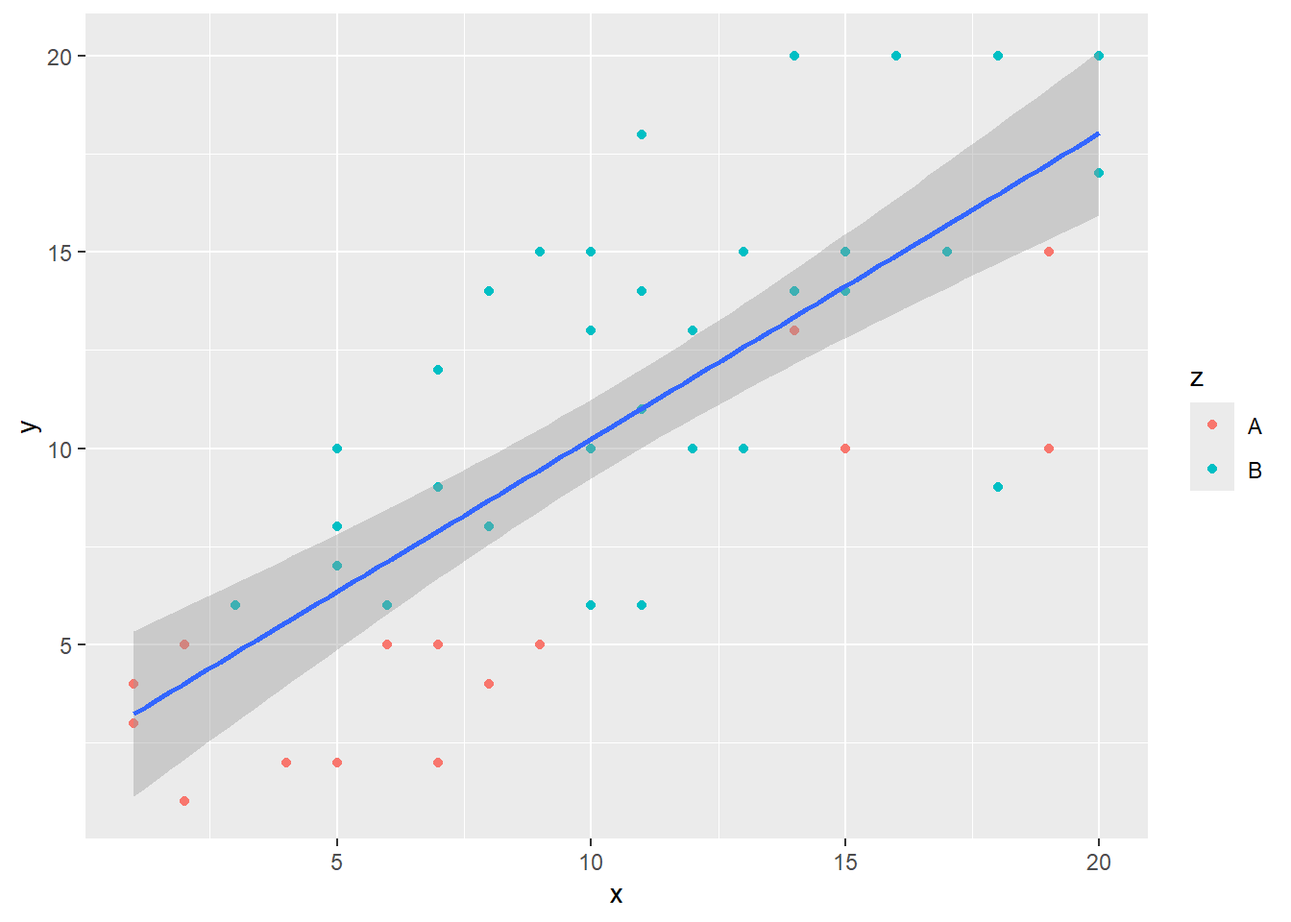
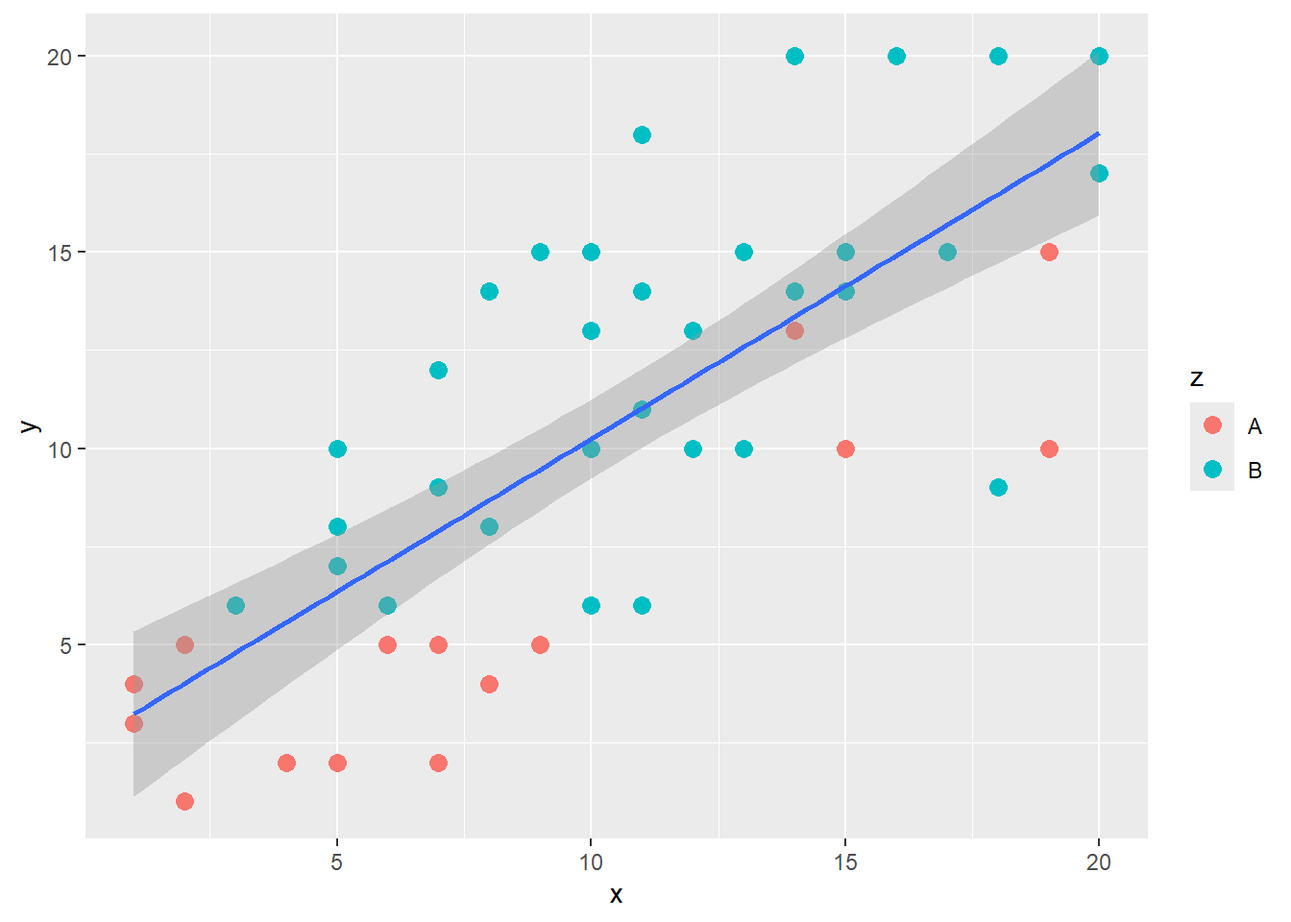
actualizacion 24/6

diff --git a/clases/12-clase/index.html b/clases/12-clase/index.html
@@ -95,7 +95,11 @@ pre > code.sourceCode > span > a:first-child::before { text-decoration: underlin
   <li><a href="#ejemplo-de-gráfico-de-dispersión" id="toc-ejemplo-de-gráfico-de-dispersión" class="nav-link" data-scroll-target="#ejemplo-de-gráfico-de-dispersión">Ejemplo de gráfico de dispersión</a></li>
   <li><a href="#capa-geométrica" id="toc-capa-geométrica" class="nav-link" data-scroll-target="#capa-geométrica">Capa geométrica</a></li>
   <li><a href="#facetas" id="toc-facetas" class="nav-link" data-scroll-target="#facetas">Facetas</a></li>
-  <li><a href="#colores" id="toc-colores" class="nav-link" data-scroll-target="#colores">Colores</a></li>
+  <li><a href="#colores" id="toc-colores" class="nav-link" data-scroll-target="#colores">Colores</a>
+  <ul class="collapse">
+  <li><a href="#paletas-de-colores" id="toc-paletas-de-colores" class="nav-link" data-scroll-target="#paletas-de-colores">Paletas de colores</a></li>
+  <li><a href="#funciones-scale_" id="toc-funciones-scale_" class="nav-link" data-scroll-target="#funciones-scale_">Funciones scale_*</a></li>
+  </ul></li>
   <li><a href="#personalización" id="toc-personalización" class="nav-link" data-scroll-target="#personalización">Personalización</a></li>
   <li><a href="#exportación" id="toc-exportación" class="nav-link" data-scroll-target="#exportación">Exportación</a></li>
   <li><a href="#composición-de-gráficos" id="toc-composición-de-gráficos" class="nav-link" data-scroll-target="#composición-de-gráficos">Composición de gráficos</a></li>
@@ -275,7 +279,7 @@ pre > code.sourceCode > span > a:first-child::before { text-decoration: underlin
 <div class="cell" data-layout-align="center">
 <div class="sourceCode cell-code" id="cb6"><pre class="sourceCode r code-with-copy"><code class="sourceCode r"><span id="cb6-1"><a href="#cb6-1" aria-hidden="true" tabindex="-1"></a>datos <span class="sc">|&gt;</span> </span>
 <span id="cb6-2"><a href="#cb6-2" aria-hidden="true" tabindex="-1"></a>  <span class="fu">ggplot</span>(<span class="at">mapping =</span> <span class="fu">aes</span>(<span class="at">x =</span> x, <span class="at">y =</span> y)) <span class="sc">+</span> </span>
-<span id="cb6-3"><a href="#cb6-3" aria-hidden="true" tabindex="-1"></a>  <span class="fu">geom_point</span>()</span></code><button title="Copy to Clipboard" class="code-copy-button"><i class="bi"></i></button></pre></div>
+<span id="cb6-3"><a href="#cb6-3" aria-hidden="true" tabindex="-1"></a>  <span class="fu">geom_point</span>(<span class="at">size =</span> <span class="dv">3</span>)</span></code><button title="Copy to Clipboard" class="code-copy-button"><i class="bi"></i></button></pre></div>
 <div class="cell-output-display">
 <div class="quarto-figure quarto-figure-center">
 <figure class="figure">
@@ -288,7 +292,7 @@ pre > code.sourceCode > span > a:first-child::before { text-decoration: underlin
 <div class="cell" data-layout-align="center">
 <div class="sourceCode cell-code" id="cb7"><pre class="sourceCode r code-with-copy"><code class="sourceCode r"><span id="cb7-1"><a href="#cb7-1" aria-hidden="true" tabindex="-1"></a>datos <span class="sc">|&gt;</span> </span>
 <span id="cb7-2"><a href="#cb7-2" aria-hidden="true" tabindex="-1"></a>  <span class="fu">ggplot</span>(<span class="at">mapping =</span> <span class="fu">aes</span>(<span class="at">x =</span> x, <span class="at">y =</span> y, <span class="at">color =</span> z)) <span class="sc">+</span> </span>
-<span id="cb7-3"><a href="#cb7-3" aria-hidden="true" tabindex="-1"></a>  <span class="fu">geom_point</span>()</span></code><button title="Copy to Clipboard" class="code-copy-button"><i class="bi"></i></button></pre></div>
+<span id="cb7-3"><a href="#cb7-3" aria-hidden="true" tabindex="-1"></a>  <span class="fu">geom_point</span>(<span class="at">size =</span> <span class="dv">3</span>)</span></code><button title="Copy to Clipboard" class="code-copy-button"><i class="bi"></i></button></pre></div>
 <div class="cell-output-display">
 <div class="quarto-figure quarto-figure-center">
 <figure class="figure">
@@ -302,7 +306,7 @@ pre > code.sourceCode > span > a:first-child::before { text-decoration: underlin
 <div class="cell" data-layout-align="center">
 <div class="sourceCode cell-code" id="cb8"><pre class="sourceCode r code-with-copy"><code class="sourceCode r"><span id="cb8-1"><a href="#cb8-1" aria-hidden="true" tabindex="-1"></a>datos <span class="sc">|&gt;</span> </span>
 <span id="cb8-2"><a href="#cb8-2" aria-hidden="true" tabindex="-1"></a>  <span class="fu">ggplot</span>(<span class="at">mapping =</span> <span class="fu">aes</span>(<span class="at">x =</span> x, <span class="at">y =</span> y)) <span class="sc">+</span> </span>
-<span id="cb8-3"><a href="#cb8-3" aria-hidden="true" tabindex="-1"></a>  <span class="fu">geom_point</span>(<span class="at">color =</span> <span class="st">"blue"</span>, <span class="at">shape =</span> <span class="dv">17</span>, <span class="at">size =</span> <span class="dv">2</span>)</span></code><button title="Copy to Clipboard" class="code-copy-button"><i class="bi"></i></button></pre></div>
+<span id="cb8-3"><a href="#cb8-3" aria-hidden="true" tabindex="-1"></a>  <span class="fu">geom_point</span>(<span class="at">color =</span> <span class="st">"blue"</span>, <span class="at">shape =</span> <span class="dv">17</span>, <span class="at">size =</span> <span class="dv">3</span>)</span></code><button title="Copy to Clipboard" class="code-copy-button"><i class="bi"></i></button></pre></div>
 <div class="cell-output-display">
 <div class="quarto-figure quarto-figure-center">
 <figure class="figure">
@@ -321,7 +325,7 @@ pre > code.sourceCode > span > a:first-child::before { text-decoration: underlin
 <div class="cell" data-layout-align="center">
 <div class="sourceCode cell-code" id="cb9"><pre class="sourceCode r code-with-copy"><code class="sourceCode r"><span id="cb9-1"><a href="#cb9-1" aria-hidden="true" tabindex="-1"></a>datos <span class="sc">|&gt;</span> </span>
 <span id="cb9-2"><a href="#cb9-2" aria-hidden="true" tabindex="-1"></a>  <span class="fu">ggplot</span>(<span class="at">mapping =</span> <span class="fu">aes</span>(<span class="at">x =</span> x, <span class="at">y =</span> y, <span class="at">color =</span> z)) <span class="sc">+</span> </span>
-<span id="cb9-3"><a href="#cb9-3" aria-hidden="true" tabindex="-1"></a>  <span class="fu">geom_point</span>() <span class="sc">+</span></span>
+<span id="cb9-3"><a href="#cb9-3" aria-hidden="true" tabindex="-1"></a>  <span class="fu">geom_point</span>(<span class="at">size =</span> <span class="dv">3</span>) <span class="sc">+</span></span>
 <span id="cb9-4"><a href="#cb9-4" aria-hidden="true" tabindex="-1"></a>  <span class="fu">geom_smooth</span>(<span class="at">method =</span> <span class="st">"lm"</span>)</span></code><button title="Copy to Clipboard" class="code-copy-button"><i class="bi"></i></button></pre></div>
 <div class="cell-output cell-output-stderr">
 <pre><code>`geom_smooth()` using formula = 'y ~ x'</code></pre>
@@ -339,7 +343,7 @@ pre > code.sourceCode > span > a:first-child::before { text-decoration: underlin
 <div class="cell" data-layout-align="center">
 <div class="sourceCode cell-code" id="cb11"><pre class="sourceCode r code-with-copy"><code class="sourceCode r"><span id="cb11-1"><a href="#cb11-1" aria-hidden="true" tabindex="-1"></a>datos <span class="sc">|&gt;</span> </span>
 <span id="cb11-2"><a href="#cb11-2" aria-hidden="true" tabindex="-1"></a>  <span class="fu">ggplot</span>(<span class="at">mapping =</span> <span class="fu">aes</span>(<span class="at">x =</span> x, <span class="at">y =</span> y)) <span class="sc">+</span> </span>
-<span id="cb11-3"><a href="#cb11-3" aria-hidden="true" tabindex="-1"></a>  <span class="fu">geom_point</span>(<span class="fu">aes</span>(<span class="at">color =</span> z)) <span class="sc">+</span>           <span class="co"># estética local (solo en puntos)</span></span>
+<span id="cb11-3"><a href="#cb11-3" aria-hidden="true" tabindex="-1"></a>  <span class="fu">geom_point</span>(<span class="fu">aes</span>(<span class="at">color =</span> z), <span class="at">size =</span> <span class="dv">3</span>) <span class="sc">+</span>           <span class="co"># estética local (solo en puntos)</span></span>
 <span id="cb11-4"><a href="#cb11-4" aria-hidden="true" tabindex="-1"></a>  <span class="fu">geom_smooth</span>(<span class="at">method =</span> <span class="st">"lm"</span>)</span></code><button title="Copy to Clipboard" class="code-copy-button"><i class="bi"></i></button></pre></div>
 <div class="cell-output cell-output-stderr">
 <pre><code>`geom_smooth()` using formula = 'y ~ x'</code></pre>
@@ -436,18 +440,158 @@ pre > code.sourceCode > span > a:first-child::before { text-decoration: underlin
 </section>
 <section id="facetas" class="level2">
 <h2 class="anchored" data-anchor-id="facetas">Facetas</h2>
+<p>Las facetas son una herramienta poderosa en ggplot2 que permite dividir un gráfico en múltiples paneles, cada uno mostrando la información para un subgrupo específico de los datos. Esto resulta particularmente útil para explorar la interacción entre dos o más variables categóricas, facilitando la identificación de patrones y tendencias que podrían pasar desapercibidos en un gráfico único.</p>
+<p>Las facetas se implementan principalmente mediante dos funciones: <code>facet_wrap()</code> y <code>facet_grid()</code>.</p>
+<ul>
+<li><p><code>facet_wrap()</code> organiza los paneles por una única variable categórica, creando filas o columnas de gráficos según el número de niveles de la variable.</p></li>
+<li><p><code>facet_grid()</code> utiliza dos variables categóricas para organizar los paneles en una cuadrícula, permitiendo explorar la interacción entre ambas variables.</p></li>
+</ul>
+<p>Las facetas no solo mejoran la organización de la información, sino que también incrementan la claridad y la legibilidad de los gráficos, especialmente cuando se trata de conjuntos de datos con múltiples categorías. Además, permiten crear gráficos más compactos y eficientes en cuanto al espacio, aprovechando al máximo el área disponible.</p>
+<p>Con los datos anteriores podemos utilizar la variable <code>z</code> para sumar una capa de facetas.</p>
+<div class="cell" data-layout-align="center">
+<div class="sourceCode cell-code" id="cb13"><pre class="sourceCode r code-with-copy"><code class="sourceCode r"><span id="cb13-1"><a href="#cb13-1" aria-hidden="true" tabindex="-1"></a>datos <span class="sc">|&gt;</span> </span>
+<span id="cb13-2"><a href="#cb13-2" aria-hidden="true" tabindex="-1"></a>  <span class="fu">ggplot</span>(<span class="at">mapping =</span> <span class="fu">aes</span>(<span class="at">x =</span> x, <span class="at">y =</span> y, <span class="at">color =</span> z)) <span class="sc">+</span> </span>
+<span id="cb13-3"><a href="#cb13-3" aria-hidden="true" tabindex="-1"></a>  <span class="fu">geom_point</span>(<span class="at">size =</span> <span class="dv">3</span>) <span class="sc">+</span>  </span>
+<span id="cb13-4"><a href="#cb13-4" aria-hidden="true" tabindex="-1"></a>  <span class="fu">facet_wrap</span>(<span class="sc">~</span>z) <span class="co"># formato columnas</span></span></code><button title="Copy to Clipboard" class="code-copy-button"><i class="bi"></i></button></pre></div>
+<div class="cell-output-display">
+<div class="quarto-figure quarto-figure-center">
+<figure class="figure">
+<p><img src="index_files/figure-html/unnamed-chunk-11-1.png" class="img-fluid quarto-figure quarto-figure-center figure-img" style="width:50.0%"></p>
+</figure>
+</div>
+</div>
+</div>
 </section>
 <section id="colores" class="level2">
 <h2 class="anchored" data-anchor-id="colores">Colores</h2>
+<p>Otro elemento esencial para lograr gráficos atractivos son los colores. <strong>ggplot2</strong> ofrece una amplia gama de funciones <code>scale_*</code> que permiten personalizar y controlar el uso del color en cada componente del gráfico.</p>
+<section id="paletas-de-colores" class="level3">
+<h3 class="anchored" data-anchor-id="paletas-de-colores">Paletas de colores</h3>
+<p><strong>ggplot2</strong> proporciona paletas predeterminadas para diferentes tipos de datos, como Set1, Set2, Darked, etc.</p>
+<p>Además, existen paquetes externos como <strong>RColorBrewer</strong> y <strong>viridis</strong> que ofrecen una amplia variedad de paletas de colores adicionales. La elección de la paleta dependerá del tipo de datos, la estética deseada y el mensaje que se quiere transmitir con el gráfico.</p>
+<p>Un sitio útil que muestra paquetes de paletas de colores es <a href="https://r-graph-gallery.com/color-palette-finder">Palette finder</a>. Esos paquetes deben ser instalados y activados previamente para poder utilizar sus colores.</p>
+</section>
+<section id="funciones-scale_" class="level3">
+<h3 class="anchored" data-anchor-id="funciones-scale_">Funciones scale_*</h3>
+<p>Existen dos funciones <code>scale_*()</code> principales que permiten ajustar el uso del color en las partes de los elementos gráficos:</p>
+<ul>
+<li><p><code>scale_color_*()</code>: Define la paleta de colores y la asignación de colores de contorno o elementos tipo puntos y lineas.</p></li>
+<li><p><code>scale_fill_*()</code>: Controla el color de relleno para elementos como barras o áreas.</p></li>
+</ul>
+<p>El asterisco se reemplaza por nombres que refieren a una característica de la escala y el tipo de variable asociada:</p>
+<p><code>scale_color_discrete()</code> para variables categóricas</p>
+<p><code>scale_fill_continuous()</code> para variables cuantitativas continuas</p>
+<p><code>scale_color_manual()</code> para definir colores en forma manual</p>
+<p>R es compatible con muchos formatos de colores. Tiene 657 colores bajo nombres que se pueden visualizar mediante la ejecución de la función <code>colors()</code>, también se puede convocar mediante números y expande sus posibilidades a partir del formato hexadecimal hasta 16.777.216 combinaciones.</p>
+<p>La página <a href="https://www.colorhexa.com/">ColorHexa</a> entre otras similares ofrecen seleccionar colores visualmente y copiar el código hexadecimal correspondiente.</p>
+<p>Otra cuestión a tener en cuenta es la accesibilidad para personas daltónicas, es decir utilizar paletas de colores amigables que garanticen que la información sea accesible para todxs. Un paquete en R que aborda este tema es <a href="https://cran.r-project.org/web/packages/colorBlindness/vignettes/colorBlindness.html">colorBlindness</a>.</p>
+</section>
 </section>
 <section id="personalización" class="level2">
 <h2 class="anchored" data-anchor-id="personalización">Personalización</h2>
+<p>La función <code>theme()</code> de ggplot2 brinda el poder de personalizar cada aspecto de la estética de un gráfico.</p>
+<p>Con <code>theme()</code> se puede modificar elementos como:</p>
+<ul>
+<li><strong>Fuentes</strong>: Selecciona las fuentes para títulos, etiquetas y textos del gráfico.</li>
+<li><strong>Leyenda</strong>: Controla la posición, el formato y el estilo de la leyenda.</li>
+<li><strong>Ejes</strong>: Personaliza el grosor, el color, las marcas y las etiquetas de los ejes.</li>
+<li><strong>Título</strong>: Define el estilo y la ubicación del título del gráfico.</li>
+<li><strong>Cuadrícula (grid)</strong>: Controla la apariencia de la cuadrícula de fondo, incluyendo su color, grosor y tipo de línea.</li>
+</ul>
+<p>Los argumentos de la función <code>theme()</code> comienzan con un nombre del elemento en cuestión y le siguen nombres relacionados a caracteristicas de esos elementos.</p>
+<p>Por ejemplo, para los ejes, el argumento <code>axis.*</code> tiene nombres como <code>title</code>, <code>text</code>, <code>ticks</code>, <code>line</code> que se igualan a funciones tipo <code>element_line()</code> para personalización de líneas, <code>element_text()</code> para textos, etc.</p>
+<p>Hagamos un pequeño ejemplo con el gráfico de puntos que desarrollamos en el documento.</p>
+<div class="cell" data-layout-align="center">
+<div class="sourceCode cell-code" id="cb14"><pre class="sourceCode r code-with-copy"><code class="sourceCode r"><span id="cb14-1"><a href="#cb14-1" aria-hidden="true" tabindex="-1"></a>datos <span class="sc">|&gt;</span> </span>
+<span id="cb14-2"><a href="#cb14-2" aria-hidden="true" tabindex="-1"></a>  <span class="fu">ggplot</span>(<span class="at">mapping =</span> <span class="fu">aes</span>(<span class="at">x =</span> x, <span class="at">y =</span> y, <span class="at">color =</span> z)) <span class="sc">+</span> </span>
+<span id="cb14-3"><a href="#cb14-3" aria-hidden="true" tabindex="-1"></a>  <span class="fu">geom_point</span>(<span class="at">size =</span> <span class="dv">3</span>) <span class="sc">+</span></span>
+<span id="cb14-4"><a href="#cb14-4" aria-hidden="true" tabindex="-1"></a>  <span class="fu">labs</span>(<span class="at">title =</span> <span class="st">"Grafico de puntos"</span>, <span class="co"># titulo de grafico</span></span>
+<span id="cb14-5"><a href="#cb14-5" aria-hidden="true" tabindex="-1"></a>       <span class="at">x =</span> <span class="st">"Eje x"</span>, <span class="co"># titulo de eje x</span></span>
+<span id="cb14-6"><a href="#cb14-6" aria-hidden="true" tabindex="-1"></a>       <span class="at">y =</span> <span class="st">"Eje y"</span>) <span class="sc">+</span> <span class="co"># titulo de eje y</span></span>
+<span id="cb14-7"><a href="#cb14-7" aria-hidden="true" tabindex="-1"></a>  <span class="fu">scale_colour_brewer</span>(<span class="at">palette =</span> <span class="st">"Set1"</span>, <span class="co"># paleta Set1 en color</span></span>
+<span id="cb14-8"><a href="#cb14-8" aria-hidden="true" tabindex="-1"></a>                      <span class="at">name =</span> <span class="st">"Variable z"</span>) <span class="sc">+</span> </span>
+<span id="cb14-9"><a href="#cb14-9" aria-hidden="true" tabindex="-1"></a>  <span class="fu">theme</span>(<span class="at">axis.title.x =</span> <span class="fu">element_text</span>(<span class="at">face =</span> <span class="st">"bold"</span>), <span class="co"># titulo de eje x en negrita</span></span>
+<span id="cb14-10"><a href="#cb14-10" aria-hidden="true" tabindex="-1"></a>        <span class="at">axis.title.y =</span> <span class="fu">element_text</span>(<span class="at">color =</span> <span class="st">"red"</span>), <span class="co"># titulo de eje y color rojo</span></span>
+<span id="cb14-11"><a href="#cb14-11" aria-hidden="true" tabindex="-1"></a>        <span class="at">axis.text.x =</span> <span class="fu">element_text</span>(<span class="at">size =</span> <span class="dv">8</span>), <span class="co"># texto de eje x tamaño 7 pts</span></span>
+<span id="cb14-12"><a href="#cb14-12" aria-hidden="true" tabindex="-1"></a>        <span class="at">axis.text.y =</span> <span class="fu">element_text</span>(<span class="at">face =</span> <span class="st">"italic"</span>), <span class="co"># texto de eje y en itálica</span></span>
+<span id="cb14-13"><a href="#cb14-13" aria-hidden="true" tabindex="-1"></a>        <span class="at">legend.title =</span> <span class="fu">element_text</span>(<span class="at">size =</span> <span class="dv">14</span>), <span class="co"># titulo de leyenda tamaño 12 pts</span></span>
+<span id="cb14-14"><a href="#cb14-14" aria-hidden="true" tabindex="-1"></a>        <span class="at">plot.title =</span> <span class="fu">element_text</span>(<span class="at">size =</span> <span class="dv">18</span>, <span class="at">face =</span> <span class="st">"bold"</span>)) <span class="co"># titulo de grafico tamaño 16 pts y negrita</span></span></code><button title="Copy to Clipboard" class="code-copy-button"><i class="bi"></i></button></pre></div>
+<div class="cell-output-display">
+<div class="quarto-figure quarto-figure-center">
+<figure class="figure">
+<p><img src="index_files/figure-html/unnamed-chunk-12-1.png" class="img-fluid quarto-figure quarto-figure-center figure-img" style="width:70.0%"></p>
+</figure>
+</div>
+</div>
+</div>
+<p>Personalizar temas permite mantener un estilo consistente en diferentes gráficos para crear una experiencia visual uniforme y mejorar su legibilidad.</p>
+<p>Es muy útil almacenar la personalización y aplicarla a los gráficos donde la necesitamos.</p>
+<div class="cell">
+<div class="sourceCode cell-code" id="cb15"><pre class="sourceCode r code-with-copy"><code class="sourceCode r"><span id="cb15-1"><a href="#cb15-1" aria-hidden="true" tabindex="-1"></a>mi_tema <span class="ot">&lt;-</span> <span class="fu">theme</span>(<span class="at">axis.title.x =</span> <span class="fu">element_text</span>(<span class="at">face =</span> <span class="st">"bold"</span>), </span>
+<span id="cb15-2"><a href="#cb15-2" aria-hidden="true" tabindex="-1"></a>        <span class="at">axis.title.y =</span> <span class="fu">element_text</span>(<span class="at">color =</span> <span class="st">"red"</span>),</span>
+<span id="cb15-3"><a href="#cb15-3" aria-hidden="true" tabindex="-1"></a>        <span class="at">axis.text.x =</span> <span class="fu">element_text</span>(<span class="at">size =</span> <span class="dv">8</span>), </span>
+<span id="cb15-4"><a href="#cb15-4" aria-hidden="true" tabindex="-1"></a>        <span class="at">axis.text.y =</span> <span class="fu">element_text</span>(<span class="at">face =</span> <span class="st">"italic"</span>), </span>
+<span id="cb15-5"><a href="#cb15-5" aria-hidden="true" tabindex="-1"></a>        <span class="at">legend.title =</span> <span class="fu">element_text</span>(<span class="at">size =</span> <span class="dv">14</span>), <span class="co">#</span></span>
+<span id="cb15-6"><a href="#cb15-6" aria-hidden="true" tabindex="-1"></a>        <span class="at">plot.title =</span> <span class="fu">element_text</span>(<span class="at">size =</span> <span class="dv">18</span>, <span class="at">face =</span> <span class="st">"bold"</span>)) </span></code><button title="Copy to Clipboard" class="code-copy-button"><i class="bi"></i></button></pre></div>
+</div>
+<div class="cell" data-layout-align="center">
+<div class="sourceCode cell-code" id="cb16"><pre class="sourceCode r code-with-copy"><code class="sourceCode r"><span id="cb16-1"><a href="#cb16-1" aria-hidden="true" tabindex="-1"></a>datos <span class="sc">|&gt;</span> </span>
+<span id="cb16-2"><a href="#cb16-2" aria-hidden="true" tabindex="-1"></a>  <span class="fu">ggplot</span>(<span class="at">mapping =</span> <span class="fu">aes</span>(<span class="at">x =</span> x, <span class="at">y =</span> y, <span class="at">color =</span> z)) <span class="sc">+</span> </span>
+<span id="cb16-3"><a href="#cb16-3" aria-hidden="true" tabindex="-1"></a>  <span class="fu">geom_point</span>(<span class="at">size =</span> <span class="dv">3</span>) <span class="sc">+</span></span>
+<span id="cb16-4"><a href="#cb16-4" aria-hidden="true" tabindex="-1"></a>  <span class="fu">labs</span>(<span class="at">title =</span> <span class="st">"Grafico de puntos"</span>, <span class="co"># titulo de grafico</span></span>
+<span id="cb16-5"><a href="#cb16-5" aria-hidden="true" tabindex="-1"></a>       <span class="at">x =</span> <span class="st">"Eje x"</span>, <span class="co"># titulo de eje x</span></span>
+<span id="cb16-6"><a href="#cb16-6" aria-hidden="true" tabindex="-1"></a>       <span class="at">y =</span> <span class="st">"Eje y"</span>) <span class="sc">+</span> <span class="co"># titulo de eje y</span></span>
+<span id="cb16-7"><a href="#cb16-7" aria-hidden="true" tabindex="-1"></a>  <span class="fu">scale_colour_brewer</span>(<span class="at">palette =</span> <span class="st">"Set1"</span>, <span class="co"># paleta Set1 en color</span></span>
+<span id="cb16-8"><a href="#cb16-8" aria-hidden="true" tabindex="-1"></a>                      <span class="at">name =</span> <span class="st">"Variable z"</span>) <span class="sc">+</span> </span>
+<span id="cb16-9"><a href="#cb16-9" aria-hidden="true" tabindex="-1"></a>  mi_tema</span></code><button title="Copy to Clipboard" class="code-copy-button"><i class="bi"></i></button></pre></div>
+<div class="cell-output-display">
+<div class="quarto-figure quarto-figure-center">
+<figure class="figure">
+<p><img src="index_files/figure-html/unnamed-chunk-14-1.png" class="img-fluid quarto-figure quarto-figure-center figure-img" style="width:70.0%"></p>
+</figure>
+</div>
+</div>
+</div>
+<p>Se sugiere comenzar con personalizaciones simples y avanzar gradualmente a modificaciones más complejas de forma progresiva.</p>
 </section>
 <section id="exportación" class="level2">
 <h2 class="anchored" data-anchor-id="exportación">Exportación</h2>
+<p>La función <code>ggsave()</code> exporta los graficos generados por ggplot2 en distintos formatos, tamaños y resoluciones.</p>
+<p>La sintaxis con los argumentos opcionales es:</p>
+<div class="cell">
+<div class="sourceCode cell-code" id="cb17"><pre class="sourceCode r code-with-copy"><code class="sourceCode r"><span id="cb17-1"><a href="#cb17-1" aria-hidden="true" tabindex="-1"></a><span class="fu">ggsave</span>(filename,               <span class="co"># nombre del archivo</span></span>
+<span id="cb17-2"><a href="#cb17-2" aria-hidden="true" tabindex="-1"></a>  <span class="at">plot =</span> <span class="fu">last_plot</span>(),          <span class="co"># nombre del objeto gráfico</span></span>
+<span id="cb17-3"><a href="#cb17-3" aria-hidden="true" tabindex="-1"></a>  <span class="at">device =</span> <span class="cn">NULL</span>,               <span class="co"># formato de salida "jpeg", "png", "tiff", "pdf", etc</span></span>
+<span id="cb17-4"><a href="#cb17-4" aria-hidden="true" tabindex="-1"></a>  <span class="at">width =</span> <span class="cn">NA</span>,                  <span class="co"># ancho en unidades de units</span></span>
+<span id="cb17-5"><a href="#cb17-5" aria-hidden="true" tabindex="-1"></a>  <span class="at">height =</span> <span class="cn">NA</span>,                 <span class="co"># alto en unidades de units</span></span>
+<span id="cb17-6"><a href="#cb17-6" aria-hidden="true" tabindex="-1"></a>  <span class="at">units =</span> <span class="fu">c</span>(<span class="st">"in"</span>, <span class="st">"cm"</span>, <span class="st">"mm"</span>), <span class="co"># unidades de medidas</span></span>
+<span id="cb17-7"><a href="#cb17-7" aria-hidden="true" tabindex="-1"></a>  <span class="at">dpi =</span> <span class="dv">300</span>)                   <span class="co"># resolución de salida en dpi</span></span></code><button title="Copy to Clipboard" class="code-copy-button"><i class="bi"></i></button></pre></div>
+</div>
+<p>También es posible introducir las salidas gráficas en fragmentos de código de documentos Quarto para producir archivos html, pdf y docx de Microsoft Word.</p>
 </section>
 <section id="composición-de-gráficos" class="level2">
 <h2 class="anchored" data-anchor-id="composición-de-gráficos">Composición de gráficos</h2>
+<p>Dentro de los paquetes complementarios del sistema ggplot, <strong>patchwork</strong> surge como una herramienta muy útil para la composición de gráficos de manera intuitiva y eficiente. A diferencia de las funciones de facetado propias de ggplot2, patchwork se enfoca en la flexibilidad y personalización, permitiendo crear composiciones complejas con mayor control sobre la disposición y el estilo de los gráficos individuales.</p>
+<p>Se basa en el concepto de fragmentos que se pueden combinar, superponer y organizar libremente utilizando operadores intuitivos como +, | y ~.</p>
+<p>+: Combina gráficos horizontalmente. |: Combina gráficos verticalmente. ~: Apila gráficos uno encima del otro.</p>
+<p>Además de la simple combinación, patchwork ofrece herramientas para personalizar el diseño de la composición final, teniendo en cuenta márgenes, espacios, alineación y proporciones.</p>
+<p>Imaginemos que tenemos varios gráficos que visualizar combinados (en nuestro ejemplo lo haremos con el único gráfico que construimos).</p>
+<div class="cell" data-layout-align="center">
+<div class="sourceCode cell-code" id="cb18"><pre class="sourceCode r code-with-copy"><code class="sourceCode r"><span id="cb18-1"><a href="#cb18-1" aria-hidden="true" tabindex="-1"></a>grafico <span class="ot">&lt;-</span> datos <span class="sc">|&gt;</span> </span>
+<span id="cb18-2"><a href="#cb18-2" aria-hidden="true" tabindex="-1"></a>  <span class="fu">ggplot</span>(<span class="at">mapping =</span> <span class="fu">aes</span>(<span class="at">x =</span> x, <span class="at">y =</span> y, <span class="at">color =</span> z)) <span class="sc">+</span> </span>
+<span id="cb18-3"><a href="#cb18-3" aria-hidden="true" tabindex="-1"></a>  <span class="fu">geom_point</span>(<span class="at">size =</span> <span class="dv">3</span>)</span>
+<span id="cb18-4"><a href="#cb18-4" aria-hidden="true" tabindex="-1"></a></span>
+<span id="cb18-5"><a href="#cb18-5" aria-hidden="true" tabindex="-1"></a><span class="fu">library</span>(patchwork)</span>
+<span id="cb18-6"><a href="#cb18-6" aria-hidden="true" tabindex="-1"></a></span>
+<span id="cb18-7"><a href="#cb18-7" aria-hidden="true" tabindex="-1"></a>(grafico <span class="sc">+</span> grafico) <span class="sc">/</span> grafico </span></code><button title="Copy to Clipboard" class="code-copy-button"><i class="bi"></i></button></pre></div>
+<div class="cell-output-display">
+<div class="quarto-figure quarto-figure-center">
+<figure class="figure">
+<p><img src="index_files/figure-html/unnamed-chunk-16-1.png" class="img-fluid quarto-figure quarto-figure-center figure-img" style="width:50.0%"></p>
+</figure>
+</div>
+</div>
+</div>
 </section>
 
 </main>
